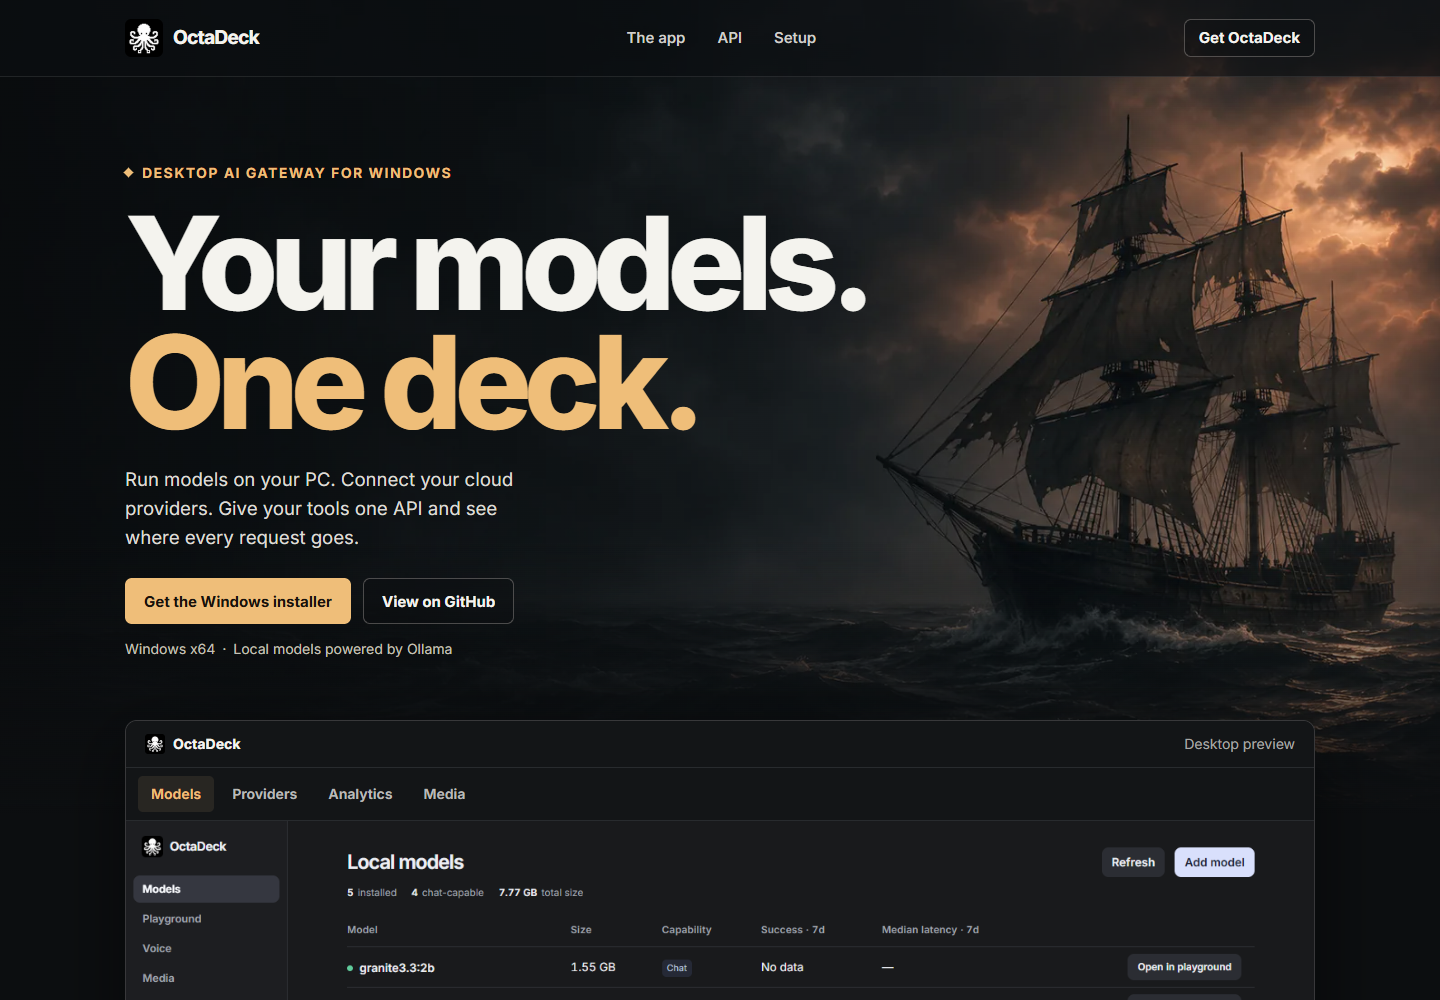
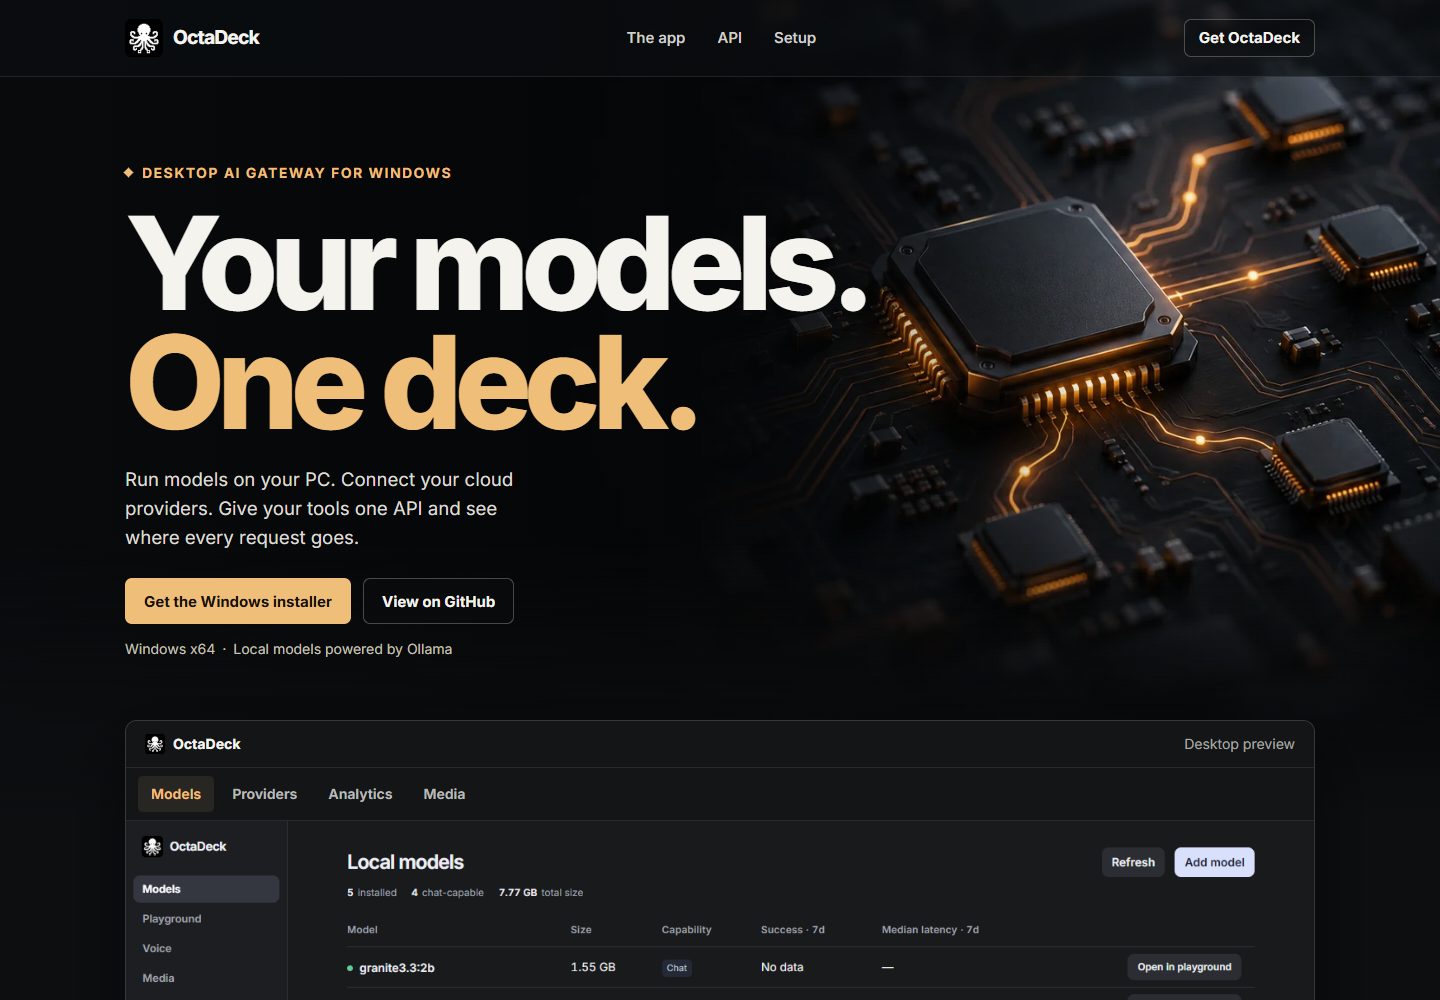
Show LLM routing in the OctaDeck landing page hero

Changed region(s): [[0.4688, 0.062, 1.0, 0.775], [0.5312, 0.651, 0.5938, 0.682]]

diff --git a/website/dist/style.css b/website/dist/style.css
@@ -58,7 +58,7 @@ section[id] { scroll-margin-top: 26px; }
   background:
     linear-gradient(0deg, var(--bg), transparent 34%),
     linear-gradient(90deg, #090b0de8 0%, #0b0d1061 49%, #0b0d1008 80%),
-    #111718 url("assets/night-crossing.webp") center 44% / cover no-repeat;
+    #111718 url("assets/model-routing.webp") center 44% / cover no-repeat;
 }
 .eyebrow {
   display: flex; align-items: center; gap: 10px; color: var(--accent);
@@ -152,8 +152,8 @@ code { font: .875rem/1.55 Consolas, "Courier New", monospace; color: #e2c095; }
     background-image:
       linear-gradient(0deg, var(--bg), transparent 36%),
       linear-gradient(90deg, #090b0dee 0%, #0b0d1099 67%, #0b0d1055 100%),
-      url("assets/night-crossing.webp");
-    background-position: center, center, 64% center;
+      url("assets/model-routing.webp");
+    background-position: center, center, 80% center;
   }
   .hero h1 { margin-top: 17px; font-size: clamp(3.1rem, 13vw, 4.7rem); }
   .hero p { font-size: 1rem; }

diff --git a/website/README.md b/website/README.md
@@ -14,12 +14,12 @@ Open http://127.0.0.1:8530. The Windows button links to the current OctaDeck rel
 
 The screenshot tabs show the installed app. The PowerShell example uses the local gateway on port 8520 and needs a gateway key from your own running instance. The landing page itself can be served by any static host.
 
-The [backdrop](dist/assets/night-crossing.webp) was made with built-in image generation and compressed to WebP.
+The [model-routing backdrop](dist/assets/model-routing.webp) was made with built-in image generation and compressed to WebP.
 
 <details>
 <summary>Backdrop prompt</summary>
 
-> Create a 16:9 widescreen cinematic maritime background for a desktop AI app landing page. Photorealistic low-key film still of a weathered black three-masted sailing ship from the age of sail, under outstretched dark tattered canvas, cutting through moody North Atlantic waves at night. Ship is small to medium and entirely within the right two-fifths of the frame, with a warm, muted copper glow breaking through heavy clouds in the right sky behind the rigging. The left 55 percent is very dark mostly empty blue-black mist with faint cloud and water texture, usable behind large white website copy. Black slate sea, subtle film grain, soft depth, elegant gritty pirate atmosphere. Horizon below center. Palette is charcoal navy, desaturated steel blue and a hint of warm amber on the right. Dark overall, preserve readably silhouetted rigging on the right. No text, no logos, no visible symbols, no people, no typography, no borders, no interface. This is background art, not a website mockup.
+> Create a wide 16:9 cinematic landing-page backdrop for OctaDeck, a desktop LLM gateway. A compact graphite AI processor routes packets along fine amber-lit circuit paths to smaller model nodes on a dark motherboard. Render a believable macro product photograph with subtle copper traces and charcoal-blue metal. Place all bright detail in the right half, with the processor centered at roughly 73% width and 40% height. Leave the left 55% nearly black, quiet, and spacious for white website copy. Let the lower edge fade into black. Keep the image restrained and crisp, with only a handful of warm highlights. No text, logos, people, or maritime imagery.
 
 </details>
 
